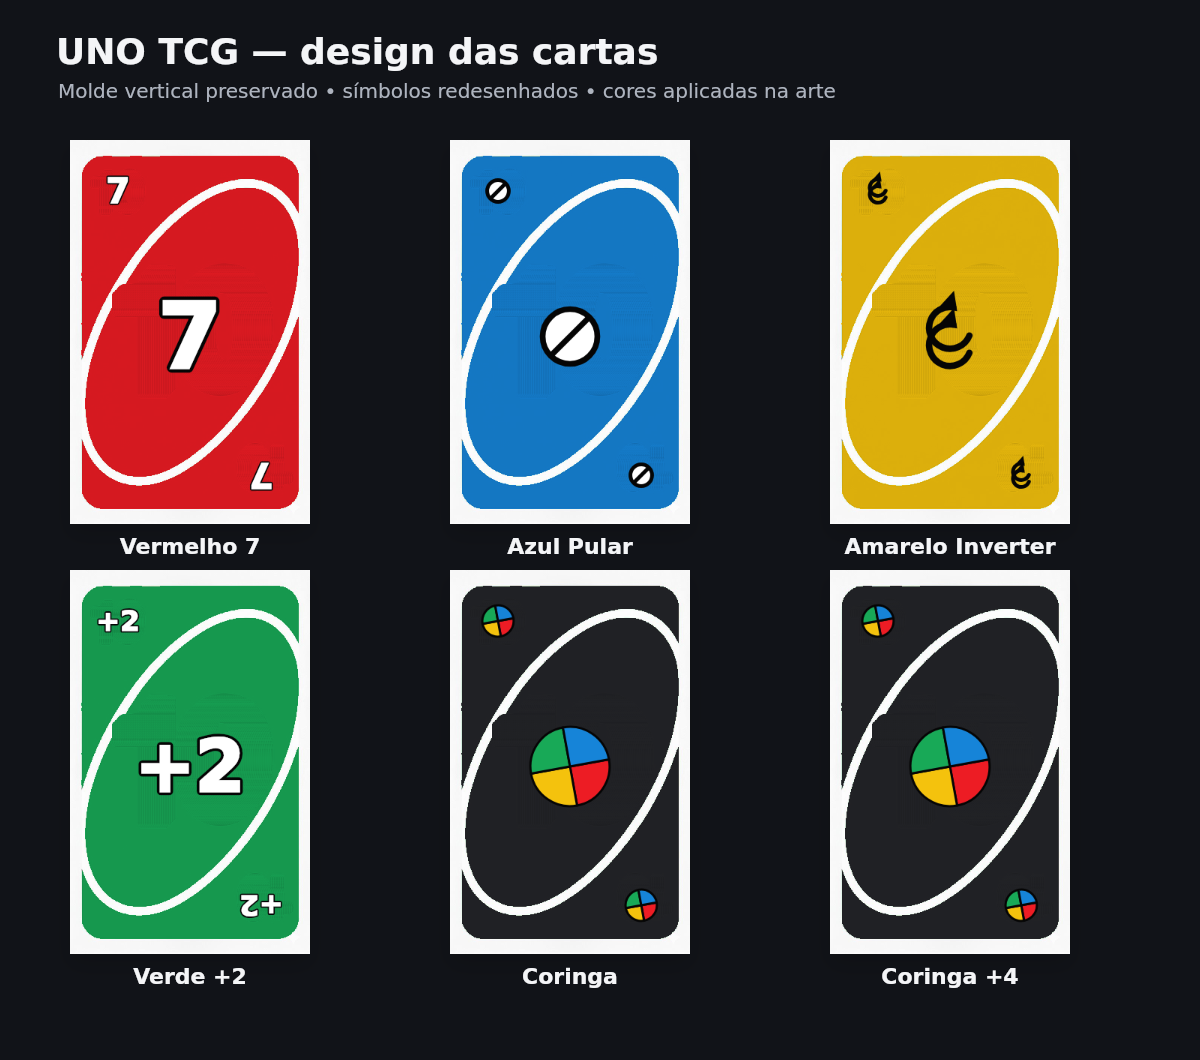
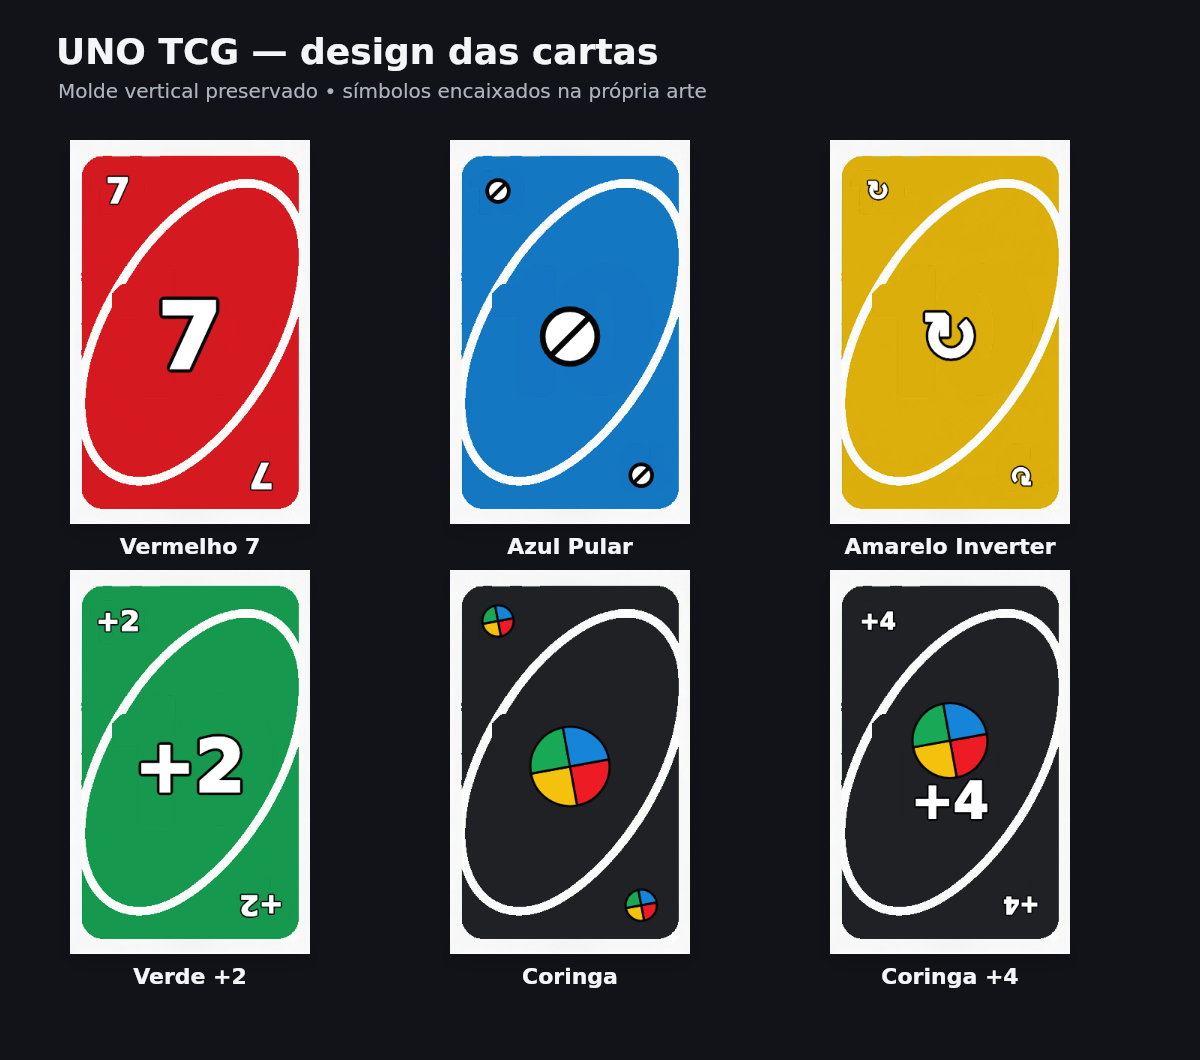
Polish UNO card symbol rendering

diff --git a/discord-bot/src/utils/unoVisuals.js b/discord-bot/src/utils/unoVisuals.js
@@ -84,25 +84,27 @@ function connectedWhitePixels(data) {
   return connected;
 }
 
-function nearestGreenPixel(data, x, y) {
-  for (let radius = 3; radius <= 42; radius += 3) {
-    const candidates = [
-      [x - radius, y], [x + radius, y], [x, y - radius], [x, y + radius],
-      [x - radius, y - radius], [x + radius, y - radius],
-      [x - radius, y + radius], [x + radius, y + radius],
-    ];
-    for (const [candidateX, candidateY] of candidates) {
-      if (
-        candidateX < 0 || candidateX >= SOURCE_WIDTH ||
-        candidateY < 0 || candidateY >= SOURCE_HEIGHT
-      ) continue;
-      const offset = (candidateY * SOURCE_WIDTH + candidateX) * 4;
-      if (isGreen(data[offset], data[offset + 1], data[offset + 2])) {
-        return [data[offset], data[offset + 1], data[offset + 2]];
-      }
+function estimateCardGreen(data) {
+  let red = 0;
+  let green = 0;
+  let blue = 0;
+  let count = 0;
+
+  for (let y = 0; y < SOURCE_HEIGHT; y += 4) {
+    for (let x = 0; x < SOURCE_WIDTH; x += 4) {
+      if (insideMask(x, y)) continue;
+      const offset = (y * SOURCE_WIDTH + x) * 4;
+      if (!isGreen(data[offset], data[offset + 1], data[offset + 2])) continue;
+      red += data[offset];
+      green += data[offset + 1];
+      blue += data[offset + 2];
+      count += 1;
     }
   }
-  return [31, 165, 79];
+
+  return count
+    ? [Math.round(red / count), Math.round(green / count), Math.round(blue / count)]
+    : [31, 165, 79];
 }
 
 async function buildCleanTemplate() {
@@ -114,6 +116,7 @@ async function buildCleanTemplate() {
   const imageData = ctx.getImageData(0, 0, SOURCE_WIDTH, SOURCE_HEIGHT);
   const data = imageData.data;
   const connectedWhite = connectedWhitePixels(data);
+  const cardGreen = estimateCardGreen(data);
 
   for (let y = 0; y < SOURCE_HEIGHT; y += 1) {
     for (let x = 0; x < SOURCE_WIDTH; x += 1) {
@@ -124,10 +127,9 @@ async function buildCleanTemplate() {
       const g = data[offset + 1];
       const b = data[offset + 2];
       if (isGreen(r, g, b) || connectedWhite[pixel]) continue;
-      const [greenR, greenG, greenB] = nearestGreenPixel(data, x, y);
-      data[offset] = greenR;
-      data[offset + 1] = greenG;
-      data[offset + 2] = greenB;
+      data[offset] = cardGreen[0];
+      data[offset + 1] = cardGreen[1];
+      data[offset + 2] = cardGreen[2];
     }
   }
 
@@ -204,31 +206,6 @@ function drawSkip(ctx, x, y, size) {
   ctx.restore();
 }
 
-function drawReverse(ctx, x, y, size) {
-  ctx.save();
-  ctx.translate(x, y);
-  ctx.strokeStyle = '#050505';
-  ctx.fillStyle = '#ffffff';
-  ctx.lineWidth = Math.max(5, size * 0.09);
-  ctx.lineCap = 'round';
-  for (const offset of [-size * 0.12, size * 0.12]) {
-    ctx.beginPath();
-    ctx.arc(0, offset, size * 0.29, Math.PI * 0.12, Math.PI * 1.55);
-    ctx.stroke();
-    const angle = Math.PI * 1.55;
-    const ax = Math.cos(angle) * size * 0.29;
-    const ay = offset + Math.sin(angle) * size * 0.29;
-    ctx.beginPath();
-    ctx.moveTo(ax, ay);
-    ctx.lineTo(ax - size * 0.12, ay - size * 0.02);
-    ctx.lineTo(ax - size * 0.02, ay - size * 0.13);
-    ctx.closePath();
-    ctx.fill();
-    ctx.stroke();
-  }
-  ctx.restore();
-}
-
 function drawWildMark(ctx, x, y, size) {
   ctx.save();
   ctx.translate(x, y);
@@ -248,10 +225,20 @@ function drawWildMark(ctx, x, y, size) {
   ctx.restore();
 }
 
+function drawWildGlyph(ctx, card, x, y, size, rotation = 0) {
+  if (card.kind !== 'wild4' || size < 60) {
+    if (card.kind === 'wild4') return drawTextGlyph(ctx, '+4', x, y, size * 0.82, rotation);
+    return drawWildMark(ctx, x, y, size * 0.55);
+  }
+
+  drawWildMark(ctx, x, y - size * 0.36, size * 0.52);
+  drawTextGlyph(ctx, '+4', x, y + size * 0.48, size * 0.7, rotation);
+}
+
 function drawGlyph(ctx, card, x, y, size, rotation = 0) {
   if (card.kind === 'skip') return drawSkip(ctx, x, y, size);
-  if (card.kind === 'reverse') return drawReverse(ctx, x, y, size);
-  if (card.color === 'wild') return drawWildMark(ctx, x, y, size * 0.55);
+  if (card.kind === 'reverse') return drawTextGlyph(ctx, '↻', x, y, size * 0.94, rotation);
+  if (card.color === 'wild') return drawWildGlyph(ctx, card, x, y, size, rotation);
   drawTextGlyph(ctx, cardSymbol(card), x, y, size, rotation);
 }
 
